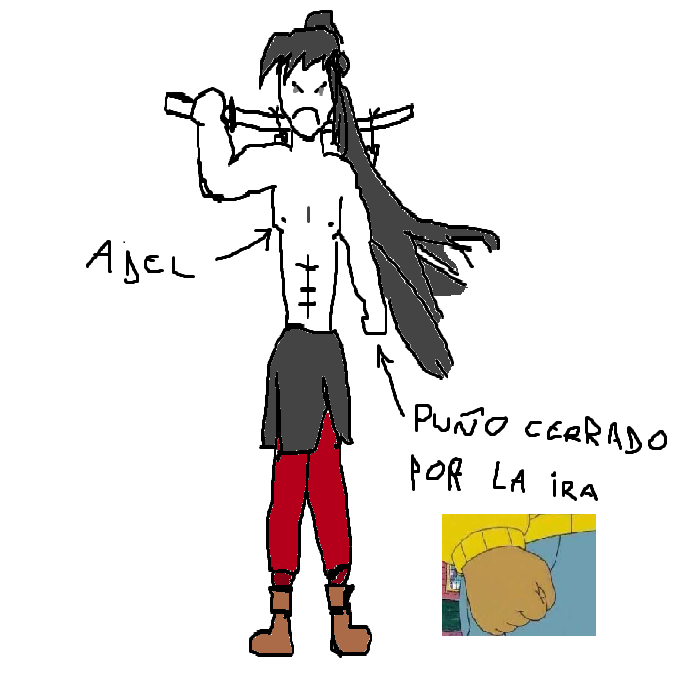
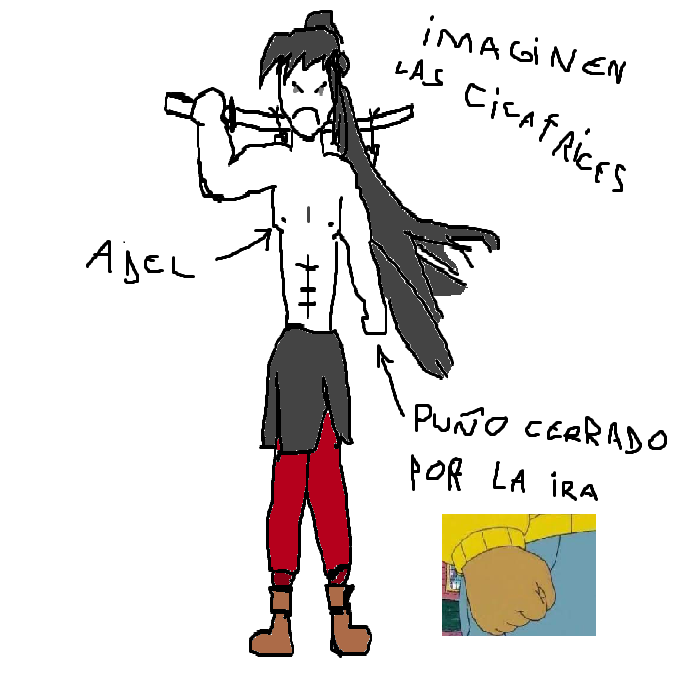
Añado al amargado

Changed region(s): [[0.66, 0.12, 0.9, 0.27], [0.6, 0.03, 0.9, 0.12], [0.57, 0.09, 0.63, 0.12]]

diff --git a/Archivos/Adel.md b/Archivos/Adel.md
@@ -23,6 +23,6 @@
 >
 > - representación grafica:
 >
-> <img src="./Dibujos/adel.png" width="100%">
+> <img src="./Dibujos/Adel.png" width="100%">
 >
 > > [Volver](Facción.md)
